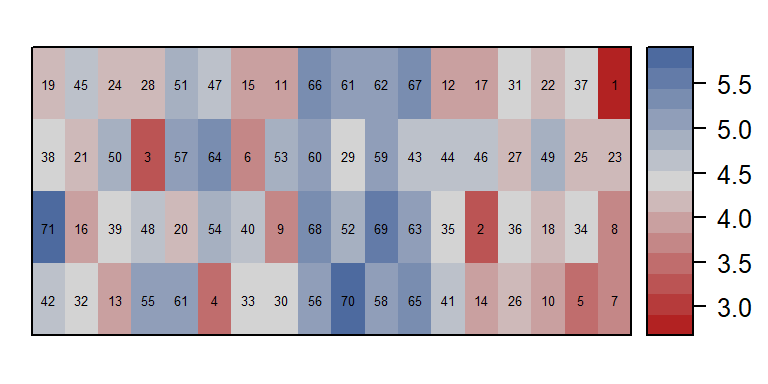
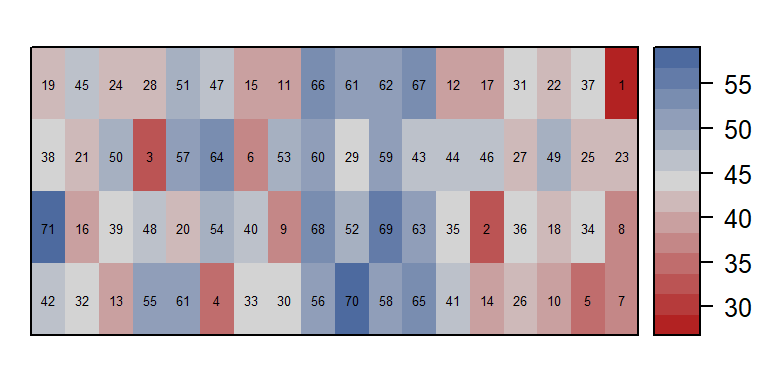
desplot complete

Changed region(s): [[0.0938, 0.125, 0.9688, 0.875], [0.0938, 0.5625, 0.1562, 0.625], [0.0938, 0.1875, 0.1562, 0.25]]

diff --git a/desplot.html b/desplot.html
@@ -328,9 +328,8 @@ div.tocify {
 </div>
 
 
-<p>Die Feldpläne, die das Versuchsdesigns in den verschiedenen Kapiteln grafisch darstellen, wurden mit dem <code>desplot</code> package erstellt. Hier sind beispielhaft ein paar Codes aufgeführt. Für detaillierte Informationen zu den einzelnen Argumenten der Funktion siehe <code>?desplot</code>.</p>
-<pre class="r"><code>library(desplot)
-library(RColorBrewer) # bessere Farbauswahlen</code></pre>
+<p>Die Feldpläne, die das Versuchsdesign in den verschiedenen Kapiteln dieser Website grafisch darstellen, wurden mit dem <code>desplot</code> package erstellt. Hier sind beispielhaft ein paar Codes aufgeführt. Für detaillierte Informationen zu den einzelnen Argumenten der Funktion siehe <code>?desplot</code>.</p>
+<pre class="r"><code>library(desplot)</code></pre>
 <div id="beispiel-1" class="section level1">
 <h1>Beispiel 1</h1>
 <p>Bei diesem Datensatz handelt es sich um ein <span class="math inline">\(\alpha\)</span>-Design mit 3 vollständigen Blöcken, die jeweils 6 unvollständige Blöcke a 4 Parzellen enthalten. Es wurden 24 Sorten geprüft.</p>
@@ -338,12 +337,12 @@ library(RColorBrewer) # bessere Farbauswahlen</code></pre>
 <div class="col-md-6">
 <pre class="r"><code>head(alpha)</code></pre>
 <pre><code>##    row col rep gen inc.block  yield
-## 1:   4   1  R1 G11     R1-B1 4.1172
-## 2:   3   1  R1 G04     R1-B1 4.4461
-## 3:   2   1  R1 G05     R1-B1 5.8757
-## 4:   1   1  R1 G22     R1-B1 4.5784
-## 5:   4   2  R1 G21     R1-B2 4.6540
-## 6:   3   2  R1 G10     R1-B2 4.1736</code></pre>
+## 1:   4   1  R1 G11     R1-B1 41.172
+## 2:   3   1  R1 G04     R1-B1 44.461
+## 3:   2   1  R1 G05     R1-B1 58.757
+## 4:   1   1  R1 G22     R1-B1 45.784
+## 5:   4   2  R1 G21     R1-B2 46.540
+## 6:   3   2  R1 G10     R1-B2 41.736</code></pre>
 </div>
 <div class="col-md-6">
 <pre class="r"><code>str(alpha, width=40, strict.width=&quot;cut&quot;)</code></pre>
@@ -353,14 +352,14 @@ library(RColorBrewer) # bessere Farbauswahlen</code></pre>
 ##  $ rep      : Factor w/ 3 levels &quot;R1&quot;&quot;..
 ##  $ gen      : Factor w/ 24 levels &quot;G0&quot;..
 ##  $ inc.block: chr  &quot;R1-B1&quot; &quot;R1-B1&quot; &quot;R&quot;..
-##  $ yield    : num  4.12 4.45 5.88 4.58..
+##  $ yield    : num  41.2 44.5 58.8 45.8..
 ##  - attr(*, &quot;.internal.selfref&quot;)=&lt;exter..</code></pre>
 </div>
 </div>
 <div class="row">
 <div class="col-md-6">
 <h2 id="sorte-je-parzelle">Sorte je Parzelle</h2>
-<p>Die Variable, die im <code>form=</code> Argument zuerst steht, bestimmt die Färbung der Parzelle. Desweiteren kann mit dem <code>text=</code> Argument bestimmt wie die Parzellen beschriftet werden.</p>
+<p>Die Variable, die im <code>form=</code> Argument links der Tilde steht, bestimmt die Färbung der Parzelle. Desweiteren können wir mit dem <code>text=</code> Argument die Parzellenbeschriftung bestimmen.</p>
 <pre class="r"><code>desplot(data=alpha, form= gen ~ col+row, 
         text=gen, shorten=&quot;no&quot;,
         main=&quot;&quot;, show.key=F)</code></pre>
@@ -368,9 +367,9 @@ library(RColorBrewer) # bessere Farbauswahlen</code></pre>
 </div>
 <div class="col-md-6">
 <h2 id="ertrag-je-parzelle">Ertrag je Parzelle</h2>
-<p>Im <code>form=</code> Argument kann auch eine numerische Variable, wie z.B. die Zielvariable eingfügt werden. Statt des <code>text=</code> Arguments, sollte dann das <code>num=</code> Argument genutzt werden.</p>
+<p>Im <code>form=</code> Argument kann auch eine numerische Variable, wie z.B. der Ertrag eingfügt werden. Dann sollte statt des <code>text=</code> Arguments das <code>num=</code> Argument genutzt werden.</p>
 <pre class="r"><code>desplot(data=alpha, form= yield ~ col+row, 
-        num=yield,
+        num=yield, 
         main=&quot;&quot;, show.key=F)</code></pre>
 <p><img src="desplot_files/figure-html/unnamed-chunk-6-1.png" width="384" style="display: block; margin: auto;" /></p>
 </div>
@@ -383,14 +382,14 @@ library(RColorBrewer) # bessere Farbauswahlen</code></pre>
 <pre class="r"><code>desplot(data=alpha, form= rep ~ col+row, 
         text=gen, shorten=&quot;no&quot;,
         out1=rep,
-        main=&quot;&quot;, show.key=F)</code></pre>
+        main=&quot;&quot;, 
+        show.key=F)</code></pre>
 <p><img src="desplot_files/figure-html/unnamed-chunk-7-1.png" width="384" style="display: block; margin: auto;" /></p>
 </div>
 <div class="col-md-6">
 <pre class="r"><code>desplot(data=alpha, form= inc.block ~ col+row,
         text=gen, shorten=&quot;no&quot;,
-        out1=rep,
-        out2=inc.block, 
+        out1=rep, out2=inc.block, 
         out2.gpar=list(col=&quot;black&quot;),
         main=&quot;&quot;, show.key=F)</code></pre>
 <p><img src="desplot_files/figure-html/unnamed-chunk-8-1.png" width="384" style="display: block; margin: auto;" /></p>
@@ -402,7 +401,9 @@ library(RColorBrewer) # bessere Farbauswahlen</code></pre>
 <p>Außerdem können sämtliche Farben des Plots selbst ausgesucht werden. Die Farbwahl in R ist generell <a href="http://www.stat.columbia.edu/~tzheng/files/Rcolor.pdf">sehr groß</a>. Wer nicht jede Farbe einzeln aussuchen möchte, kann das package <code>RColorBrewer</code> nutzen. So können wir für die unvollständigen Blöcke mit dem <code>brewer.pal()</code> Statement je 6 blau-, rot- und grün-Töne pro vollständigem Block auswählen um die Eigenschaften des Designs noch klarer hervorzuheben.</p>
 <div class="row">
 <div class="col-md-6">
-<pre class="r"><code>mycolors &lt;- c(brewer.pal(6, &quot;Blues&quot;), 
+<pre class="r"><code>library(RColorBrewer)
+
+mycolors &lt;- c(brewer.pal(6, &quot;Blues&quot;), 
               brewer.pal(6, &quot;Reds&quot;), 
               brewer.pal(6, &quot;Greens&quot;))
 

diff --git a/1wayANOVA_alpha.html b/1wayANOVA_alpha.html
@@ -350,7 +350,7 @@ library(lme4); library(lmerTest) # gemischtes Modell</code></pre>
 <p>Dieses Experiment wurde als ein <span class="math inline">\(\alpha\)</span>-lattice angelegt. Dies wurde im letzten Beispiel verschwiegen und stattdessen behauptet, es wäre eine randomisierte vollständige Blockanlage. In der Tat besitzt das eigentliche Experiment dieselben vollständigen Blöcke, allerdings gibt es innerhalb dieser noch jeweils 6 unvollständige Blöcke. Die ‘rep’ Spalte steht also weiterhin für die vollständigen Blöcke, zusätzlich gibt es jedoch noch eine ‘inc.block’ (<em>incomplete block</em>) Spalte für die unvollständigen Blöcke.</p>
 <div class="row">
 <div class="col-md-6">
-<p><img src="1wayANOVA_alpha_files/figure-html/unnamed-chunk-8-1.png" width="384" style="display: block; margin: auto;" /><img src="1wayANOVA_alpha_files/figure-html/unnamed-chunk-8-2.png" width="384" style="display: block; margin: auto;" /></p>
+<p><img src="1wayANOVA_alpha_files/figure-html/unnamed-chunk-4-1.png" width="384" style="display: block; margin: auto;" /><img src="1wayANOVA_alpha_files/figure-html/unnamed-chunk-4-2.png" width="384" style="display: block; margin: auto;" /></p>
 </div>
 <div class="col-md-6">
 <pre class="r"><code>head(alpha)</code></pre>
@@ -386,7 +386,7 @@ library(lme4); library(lmerTest) # gemischtes Modell</code></pre>
 ## 5: G02  R2        B5 5.1566
 ## 6: G02  R3        B2 4.0510</code></pre>
 <pre class="r"><code>plot(y=alpha$yield, x=alpha$gen)</code></pre>
-<p><img src="1wayANOVA_alpha_files/figure-html/unnamed-chunk-10-1.png" width="384" style="display: block; margin: auto;" /></p>
+<p><img src="1wayANOVA_alpha_files/figure-html/unnamed-chunk-6-1.png" width="384" style="display: block; margin: auto;" /></p>
 </div>
 <div class="col-md-6">
 <pre class="r"><code>summary(alpha)</code></pre>
@@ -399,11 +399,11 @@ library(lme4); library(lmerTest) # gemischtes Modell</code></pre>
 ##  G06    : 3           B6:12     Max.   :5.876  
 ##  (Other):54</code></pre>
 <pre class="r"><code>plot(y=alpha$yield, x=alpha$rep)</code></pre>
-<p><img src="1wayANOVA_alpha_files/figure-html/unnamed-chunk-11-1.png" width="672" /></p>
+<p><img src="1wayANOVA_alpha_files/figure-html/unnamed-chunk-7-1.png" width="672" /></p>
 </div>
 </div>
 <pre class="r"><code>boxplot(yield ~ rep + inc.block, data=alpha, las=2) #las=2 dreht Achsenbeschriftung</code></pre>
-<p><img src="1wayANOVA_alpha_files/figure-html/unnamed-chunk-12-1.png" width="672" /></p>
+<p><img src="1wayANOVA_alpha_files/figure-html/unnamed-chunk-8-1.png" width="672" /></p>
 </div>
 <div id="schlieende-statistik" class="section level1">
 <h1>Schließende Statistik</h1>
@@ -459,7 +459,7 @@ as.data.table(means$emmeans)[1:6,] # 6 der 24 Mittelwerte </code></pre>
   theme_bw() +
   annotate(geom=&quot;label&quot;, y=1, x=12, size=3, color=&quot;grey50&quot;, fill=&quot;white&quot;,
   label=&quot;Mittelwerte, die mit einem gemeinsamen Buchstaben versehen sind,\n sind laut Tukey-test nicht signifikant voneinander verschieden.&quot;)</code></pre>
-<p><img src="1wayANOVA_alpha_files/figure-html/unnamed-chunk-16-1.png" width="672" /></p>
+<p><img src="1wayANOVA_alpha_files/figure-html/unnamed-chunk-12-1.png" width="672" /></p>
 </div>
 
 

diff --git a/README.html b/README.html
@@ -327,7 +327,7 @@ div.tocify {
 </div>
 
 
-<p>To Do * Vergleich Versuchsanlagen. Wann zufälliger Blockeffekt? Wann Blockeffekt aus dem Modell nehmen? * Mulitpler Mittelwertvergleich (t-test, Tukey-Test) - Adjustierung * alpha lattice auswertung * adjustierter Mittelwert erklären * Standardfehler, Standardabweichung, Konfidenzintervall * Plot Layout Graph - Experimental Design * ANOVA table with F-tests and p-values using Satterthwaite’s or Kenward-Roger’s method for denominator degrees-of-freedom and F-statistic. * Inter-Intra-Block bei alpha design</p>
+<p>To Do * Other: Desplot page * Vergleich Versuchsanlagen. Wann zufälliger Blockeffekt? Wann Blockeffekt aus dem Modell nehmen? * Mulitpler Mittelwertvergleich (t-test, Tukey-Test) - Adjustierung * alpha lattice auswertung * adjustierter Mittelwert erklären * Standardfehler, Standardabweichung, Konfidenzintervall * Plot Layout Graph - Experimental Design * ANOVA table with F-tests and p-values using Satterthwaite’s or Kenward-Roger’s method for denominator degrees-of-freedom and F-statistic. * Inter-Intra-Block bei alpha design</p>
 
 
 
